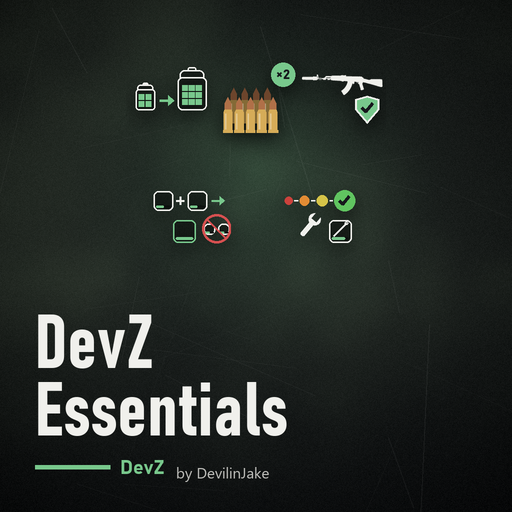
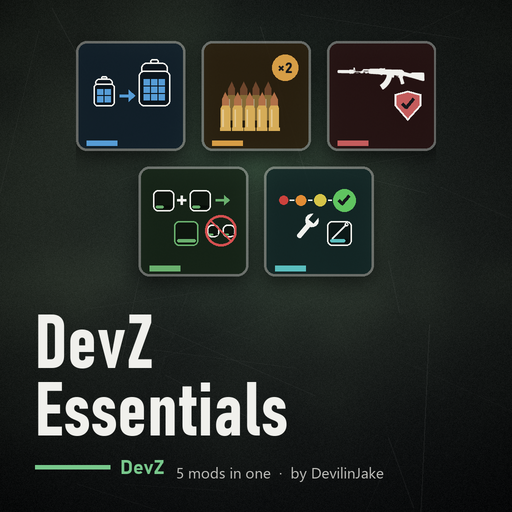
Essentials preview: one tile per mod, each in its own colour
The bundle card now draws five small tiles, one per mod, with that mod's pictogram and accent colour, instead of the five pictograms squeezed into one square. workshop_preview.card takes a list of (pictogram, accent) pairs for a bundle; make_workshop builds that list from PACKS and gives bundle cards a "5 mods in one" footer.

diff --git a/tools/workshop_preview.py b/tools/workshop_preview.py
@@ -8,6 +8,8 @@ ak_silhouette.png, an outline traced from a photo of a suppressed AKM.
     card(["Ammo", "Stacks"], (214, 157, 70), "ammo", seed=10, path="preview.png")
 
 Pictograms: inventory, ammo, weapon, combine, recipes, repair, autostack, infected.
+A bundle card takes a list of (pictogram, accent) pairs instead of a name and draws one small
+tile per mod, each in that mod's colour.
 """
 import math
 import random
@@ -322,19 +324,38 @@ class Pict:
         self.d.ellipse(self.p(cx - r, cy - r, cx + r, cy + r), fill=self.fg)
         self.d.text(self.p(cx, cy + 0.5), "1.5×", font=bahn(int(10 * self.k), "Bold"), fill=DARK, anchor="mm")
 
-    def essentials(self):
-        # the bundle: its five mods' pictograms, three on top and two below
-        rows = [(["inventory", "ammo", "weapon"], 26), (["combine", "repair"], 72)]
-        small = int(self.size * 0.31)
-        for names, cy in rows:
-            step = 100 / len(names)
-            for i, name in enumerate(names):
-                layer = Pict(small, self.fg, self.accent).draw(name)
-                cx = step * (i + 0.5)
-                self.img.alpha_composite(layer, (int(cx * self.k - small / 2), int(cy * self.k - small / 2)))
+    def tiles(self, items):
+        """A bundle: one small card-like tile per mod, each with that mod's own pictogram and
+        accent colour. items: list of (pictogram name, accent). Laid out 3 across, then the rest
+        on a second row, centred."""
+        per_row, gap = 3, 4.5
+        rows = [items[i:i + per_row] for i in range(0, len(items), per_row)]
+        tile = (100 - gap * (per_row - 1)) / per_row
+        pad = tile * 0.10
+        total_h = tile * len(rows) + gap * (len(rows) - 1)
+        top = (100 - total_h) / 2
+        for r, row in enumerate(rows):
+            left = (100 - (tile * len(row) + gap * (len(row) - 1))) / 2
+            for c, (name, accent) in enumerate(row):
+                x, y = left + c * (tile + gap), top + r * (tile + gap)
+                # tile: dark glass tinted with the mod's colour, a thin light edge
+                tint = tuple(int(v * 0.22) for v in accent) + (200,)
+                self.d.rounded_rectangle(self.p(x, y, x + tile, y + tile), radius=tile * 0.1 * self.k,
+                                         fill=tint, outline=self.fg + (95,), width=self.lw(0.7))
+                # the little accent rule at the bottom, like the big card's footer rule
+                self.d.rectangle(self.p(x + pad, y + tile - pad * 0.9, x + tile * 0.38, y + tile - pad * 0.9 + 1.4),
+                                 fill=accent)
+                inner = int((tile - 2 * pad) * self.k)
+                layer = Pict(inner, self.fg, accent).draw(name)
+                ox = int((x + pad) * self.k)
+                oy = int((y + pad * 0.55) * self.k)
+                self.img.alpha_composite(layer, (ox, oy))
 
     def draw(self, name):
-        getattr(self, name)()
+        if isinstance(name, (list, tuple)):
+            self.tiles(name)
+        else:
+            getattr(self, name)()
         return self.img
 
 
@@ -372,7 +393,10 @@ def card(title, accent, pict, seed, path, footer="by DevilinJake"):
     img = scratches(img, seed, n=30, alpha=16)
 
     three = len(title) > 2
+    bundle = isinstance(pict, (list, tuple))
     psize = 600 if pict == "weapon" else (470 if three else 520)   # the rifle is wide and short
+    if bundle:
+        psize = 720                                                 # a grid of tiles, wider than one pictogram
     p = pictogram(pict, psize, WHITE, accent)
     paste_with_shadow(img, p, centered(p, int(h * (0.29 if three else 0.31))), blur=18, offset=(0, 14), alpha=170)
 

diff --git a/tools/make_workshop.py b/tools/make_workshop.py
@@ -142,8 +142,9 @@ PICTOGRAMS = {
     "RepairToPristine": "repair",       # condition dots red -> green, wrench, sewing kit
     "AutoStack": "autostack",           # two loose groups -> one stack
     "InfectedDamage": "infected",       # claw slashes over a health bar
-    "Essentials": "essentials",         # the bundle's five pictograms together
 }
+# A bundle's picture is one small tile per mod in it, each with that mod's pictogram and colour
+# (filled in from PACKS below).
 
 
 # Bundles: one Workshop item holding several client mods (built by build_pack.ps1)
@@ -163,8 +164,17 @@ PACKS = {
 }
 
 
+for folder, (_, _, _, mods) in PACKS.items():
+    PICTOGRAMS[folder] = [(PICTOGRAMS[m], MODS[m][1]) for m in mods]
+
+
 def preview(folder, title, accent, path):
-    footer = "server mod  ·  by DevilinJake" if folder in SERVER_ONLY else "by DevilinJake"
+    if folder in SERVER_ONLY:
+        footer = "server mod  ·  by DevilinJake"
+    elif folder in PACKS:
+        footer = f"{len(PACKS[folder][3])} mods in one  ·  by DevilinJake"
+    else:
+        footer = "by DevilinJake"
     order = list(MODS) + list(PACKS)
     seed = order.index(folder) * 10        # fixes the background texture per mod
     card(title.split("\n"), accent, PICTOGRAMS[folder], seed, path, footer=footer)
